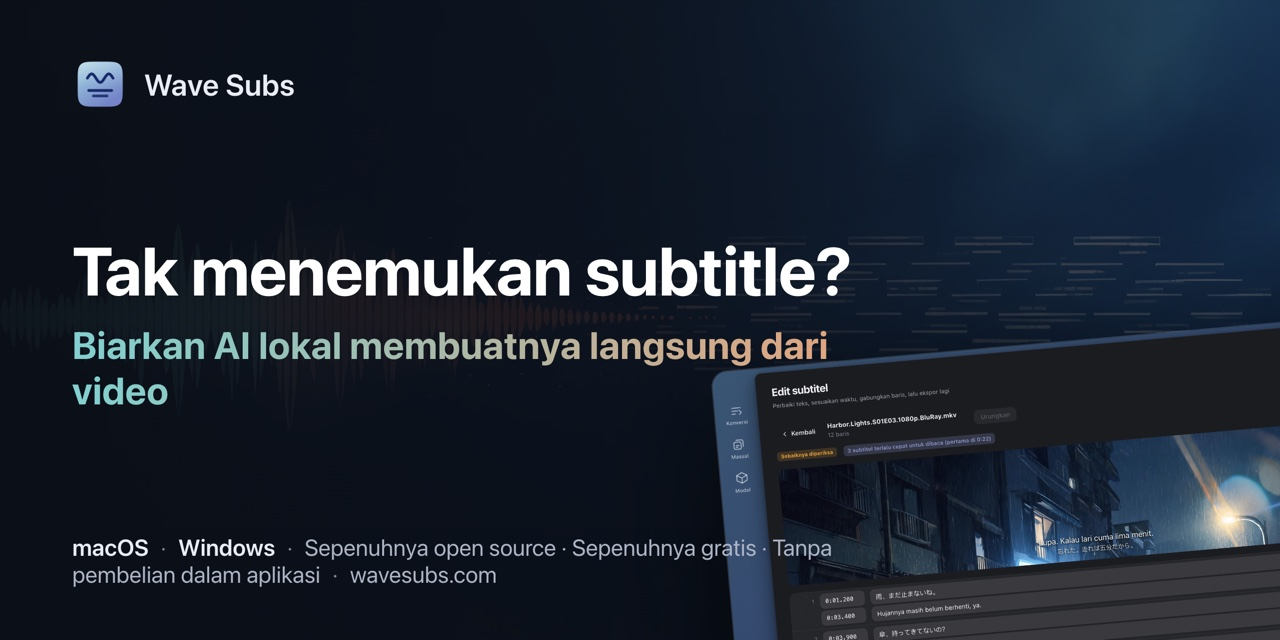
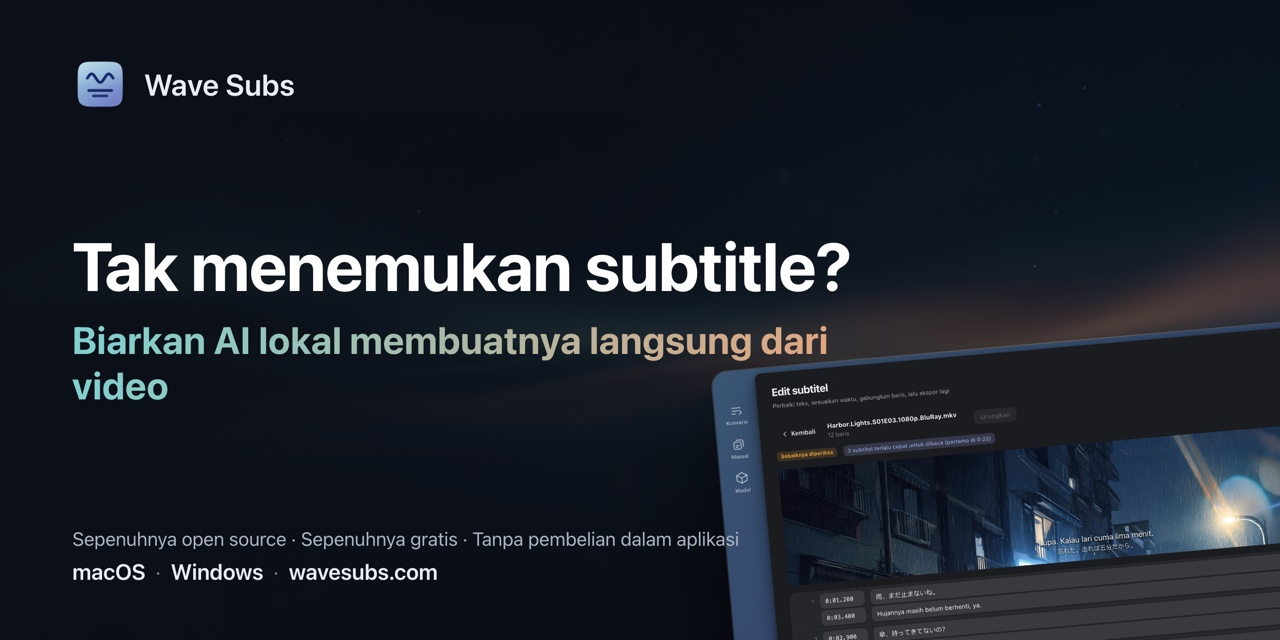
官网：hero 背景换成抽象极光渐变（即梦生成），社交卡片与 PH 首图同步更新；删除未引用的旧图

Changed region(s): [[0.0312, 0.0, 1.0, 0.6562], [0.0625, 0.8125, 0.6562, 0.9375], [0.75, 0.375, 0.7812, 0.4062]]

diff --git a/docs/de/index.html b/docs/de/index.html
@@ -45,7 +45,7 @@
 
   /* ---- 首屏 ---- */
   .hero{position:relative;overflow:hidden;padding:96px 0 40px;text-align:center}
-  .hero::before{content:"";position:absolute;inset:0;background:url(../assets/hero-wave.jpg) center/cover no-repeat;opacity:.55;mask-image:linear-gradient(to bottom,#000 30%,transparent 100%);-webkit-mask-image:linear-gradient(to bottom,#000 30%,transparent 100%)}
+  .hero::before{content:"";position:absolute;inset:0;background:url(../assets/hero-wave.jpg) center 35%/cover no-repeat;opacity:.85;mask-image:linear-gradient(to bottom,#000 45%,transparent 100%);-webkit-mask-image:linear-gradient(to bottom,#000 45%,transparent 100%)}
   .hero .wrap{position:relative}
   .hero h1{font-size:clamp(34px,5.4vw,60px);line-height:1.12;margin:0 0 18px;letter-spacing:-.5px;font-weight:700}
   .hero h1 em{font-style:normal;background:linear-gradient(90deg,var(--teal),var(--coral));-webkit-background-clip:text;background-clip:text;color:transparent}

diff --git a/docs/en/index.html b/docs/en/index.html
@@ -45,7 +45,7 @@
 
   /* ---- 首屏 ---- */
   .hero{position:relative;overflow:hidden;padding:96px 0 40px;text-align:center}
-  .hero::before{content:"";position:absolute;inset:0;background:url(../assets/hero-wave.jpg) center/cover no-repeat;opacity:.55;mask-image:linear-gradient(to bottom,#000 30%,transparent 100%);-webkit-mask-image:linear-gradient(to bottom,#000 30%,transparent 100%)}
+  .hero::before{content:"";position:absolute;inset:0;background:url(../assets/hero-wave.jpg) center 35%/cover no-repeat;opacity:.85;mask-image:linear-gradient(to bottom,#000 45%,transparent 100%);-webkit-mask-image:linear-gradient(to bottom,#000 45%,transparent 100%)}
   .hero .wrap{position:relative}
   .hero h1{font-size:clamp(34px,5.4vw,60px);line-height:1.12;margin:0 0 18px;letter-spacing:-.5px;font-weight:700}
   .hero h1 em{font-style:normal;background:linear-gradient(90deg,var(--teal),var(--coral));-webkit-background-clip:text;background-clip:text;color:transparent}

diff --git a/docs/fr/index.html b/docs/fr/index.html
@@ -45,7 +45,7 @@
 
   /* ---- 首屏 ---- */
   .hero{position:relative;overflow:hidden;padding:96px 0 40px;text-align:center}
-  .hero::before{content:"";position:absolute;inset:0;background:url(../assets/hero-wave.jpg) center/cover no-repeat;opacity:.55;mask-image:linear-gradient(to bottom,#000 30%,transparent 100%);-webkit-mask-image:linear-gradient(to bottom,#000 30%,transparent 100%)}
+  .hero::before{content:"";position:absolute;inset:0;background:url(../assets/hero-wave.jpg) center 35%/cover no-repeat;opacity:.85;mask-image:linear-gradient(to bottom,#000 45%,transparent 100%);-webkit-mask-image:linear-gradient(to bottom,#000 45%,transparent 100%)}
   .hero .wrap{position:relative}
   .hero h1{font-size:clamp(34px,5.4vw,60px);line-height:1.12;margin:0 0 18px;letter-spacing:-.5px;font-weight:700}
   .hero h1 em{font-style:normal;background:linear-gradient(90deg,var(--teal),var(--coral));-webkit-background-clip:text;background-clip:text;color:transparent}

diff --git a/docs/id/index.html b/docs/id/index.html
@@ -45,7 +45,7 @@
 
   /* ---- 首屏 ---- */
   .hero{position:relative;overflow:hidden;padding:96px 0 40px;text-align:center}
-  .hero::before{content:"";position:absolute;inset:0;background:url(../assets/hero-wave.jpg) center/cover no-repeat;opacity:.55;mask-image:linear-gradient(to bottom,#000 30%,transparent 100%);-webkit-mask-image:linear-gradient(to bottom,#000 30%,transparent 100%)}
+  .hero::before{content:"";position:absolute;inset:0;background:url(../assets/hero-wave.jpg) center 35%/cover no-repeat;opacity:.85;mask-image:linear-gradient(to bottom,#000 45%,transparent 100%);-webkit-mask-image:linear-gradient(to bottom,#000 45%,transparent 100%)}
   .hero .wrap{position:relative}
   .hero h1{font-size:clamp(34px,5.4vw,60px);line-height:1.12;margin:0 0 18px;letter-spacing:-.5px;font-weight:700}
   .hero h1 em{font-style:normal;background:linear-gradient(90deg,var(--teal),var(--coral));-webkit-background-clip:text;background-clip:text;color:transparent}

diff --git a/docs/ja/index.html b/docs/ja/index.html
@@ -45,7 +45,7 @@
 
   /* ---- 首屏 ---- */
   .hero{position:relative;overflow:hidden;padding:96px 0 40px;text-align:center}
-  .hero::before{content:"";position:absolute;inset:0;background:url(../assets/hero-wave.jpg) center/cover no-repeat;opacity:.55;mask-image:linear-gradient(to bottom,#000 30%,transparent 100%);-webkit-mask-image:linear-gradient(to bottom,#000 30%,transparent 100%)}
+  .hero::before{content:"";position:absolute;inset:0;background:url(../assets/hero-wave.jpg) center 35%/cover no-repeat;opacity:.85;mask-image:linear-gradient(to bottom,#000 45%,transparent 100%);-webkit-mask-image:linear-gradient(to bottom,#000 45%,transparent 100%)}
   .hero .wrap{position:relative}
   .hero h1{font-size:clamp(34px,5.4vw,60px);line-height:1.12;margin:0 0 18px;letter-spacing:-.5px;font-weight:700}
   .hero h1 em{font-style:normal;background:linear-gradient(90deg,var(--teal),var(--coral));-webkit-background-clip:text;background-clip:text;color:transparent}

diff --git a/docs/ko/index.html b/docs/ko/index.html
@@ -45,7 +45,7 @@
 
   /* ---- 首屏 ---- */
   .hero{position:relative;overflow:hidden;padding:96px 0 40px;text-align:center}
-  .hero::before{content:"";position:absolute;inset:0;background:url(../assets/hero-wave.jpg) center/cover no-repeat;opacity:.55;mask-image:linear-gradient(to bottom,#000 30%,transparent 100%);-webkit-mask-image:linear-gradient(to bottom,#000 30%,transparent 100%)}
+  .hero::before{content:"";position:absolute;inset:0;background:url(../assets/hero-wave.jpg) center 35%/cover no-repeat;opacity:.85;mask-image:linear-gradient(to bottom,#000 45%,transparent 100%);-webkit-mask-image:linear-gradient(to bottom,#000 45%,transparent 100%)}
   .hero .wrap{position:relative}
   .hero h1{font-size:clamp(34px,5.4vw,60px);line-height:1.12;margin:0 0 18px;letter-spacing:-.5px;font-weight:700}
   .hero h1 em{font-style:normal;background:linear-gradient(90deg,var(--teal),var(--coral));-webkit-background-clip:text;background-clip:text;color:transparent}

diff --git a/docs/ms/index.html b/docs/ms/index.html
@@ -45,7 +45,7 @@
 
   /* ---- 首屏 ---- */
   .hero{position:relative;overflow:hidden;padding:96px 0 40px;text-align:center}
-  .hero::before{content:"";position:absolute;inset:0;background:url(../assets/hero-wave.jpg) center/cover no-repeat;opacity:.55;mask-image:linear-gradient(to bottom,#000 30%,transparent 100%);-webkit-mask-image:linear-gradient(to bottom,#000 30%,transparent 100%)}
+  .hero::before{content:"";position:absolute;inset:0;background:url(../assets/hero-wave.jpg) center 35%/cover no-repeat;opacity:.85;mask-image:linear-gradient(to bottom,#000 45%,transparent 100%);-webkit-mask-image:linear-gradient(to bottom,#000 45%,transparent 100%)}
   .hero .wrap{position:relative}
   .hero h1{font-size:clamp(34px,5.4vw,60px);line-height:1.12;margin:0 0 18px;letter-spacing:-.5px;font-weight:700}
   .hero h1 em{font-style:normal;background:linear-gradient(90deg,var(--teal),var(--coral));-webkit-background-clip:text;background-clip:text;color:transparent}

diff --git a/docs/ru/index.html b/docs/ru/index.html
@@ -45,7 +45,7 @@
 
   /* ---- 首屏 ---- */
   .hero{position:relative;overflow:hidden;padding:96px 0 40px;text-align:center}
-  .hero::before{content:"";position:absolute;inset:0;background:url(../assets/hero-wave.jpg) center/cover no-repeat;opacity:.55;mask-image:linear-gradient(to bottom,#000 30%,transparent 100%);-webkit-mask-image:linear-gradient(to bottom,#000 30%,transparent 100%)}
+  .hero::before{content:"";position:absolute;inset:0;background:url(../assets/hero-wave.jpg) center 35%/cover no-repeat;opacity:.85;mask-image:linear-gradient(to bottom,#000 45%,transparent 100%);-webkit-mask-image:linear-gradient(to bottom,#000 45%,transparent 100%)}
   .hero .wrap{position:relative}
   .hero h1{font-size:clamp(34px,5.4vw,60px);line-height:1.12;margin:0 0 18px;letter-spacing:-.5px;font-weight:700}
   .hero h1 em{font-style:normal;background:linear-gradient(90deg,var(--teal),var(--coral));-webkit-background-clip:text;background-clip:text;color:transparent}

diff --git a/docs/th/index.html b/docs/th/index.html
@@ -45,7 +45,7 @@
 
   /* ---- 首屏 ---- */
   .hero{position:relative;overflow:hidden;padding:96px 0 40px;text-align:center}
-  .hero::before{content:"";position:absolute;inset:0;background:url(../assets/hero-wave.jpg) center/cover no-repeat;opacity:.55;mask-image:linear-gradient(to bottom,#000 30%,transparent 100%);-webkit-mask-image:linear-gradient(to bottom,#000 30%,transparent 100%)}
+  .hero::before{content:"";position:absolute;inset:0;background:url(../assets/hero-wave.jpg) center 35%/cover no-repeat;opacity:.85;mask-image:linear-gradient(to bottom,#000 45%,transparent 100%);-webkit-mask-image:linear-gradient(to bottom,#000 45%,transparent 100%)}
   .hero .wrap{position:relative}
   .hero h1{font-size:clamp(34px,5.4vw,60px);line-height:1.12;margin:0 0 18px;letter-spacing:-.5px;font-weight:700}
   .hero h1 em{font-style:normal;background:linear-gradient(90deg,var(--teal),var(--coral));-webkit-background-clip:text;background-clip:text;color:transparent}

diff --git a/docs/vi/index.html b/docs/vi/index.html
@@ -45,7 +45,7 @@
 
   /* ---- 首屏 ---- */
   .hero{position:relative;overflow:hidden;padding:96px 0 40px;text-align:center}
-  .hero::before{content:"";position:absolute;inset:0;background:url(../assets/hero-wave.jpg) center/cover no-repeat;opacity:.55;mask-image:linear-gradient(to bottom,#000 30%,transparent 100%);-webkit-mask-image:linear-gradient(to bottom,#000 30%,transparent 100%)}
+  .hero::before{content:"";position:absolute;inset:0;background:url(../assets/hero-wave.jpg) center 35%/cover no-repeat;opacity:.85;mask-image:linear-gradient(to bottom,#000 45%,transparent 100%);-webkit-mask-image:linear-gradient(to bottom,#000 45%,transparent 100%)}
   .hero .wrap{position:relative}
   .hero h1{font-size:clamp(34px,5.4vw,60px);line-height:1.12;margin:0 0 18px;letter-spacing:-.5px;font-weight:700}
   .hero h1 em{font-style:normal;background:linear-gradient(90deg,var(--teal),var(--coral));-webkit-background-clip:text;background-clip:text;color:transparent}

diff --git a/docs/index.html b/docs/index.html
@@ -45,7 +45,7 @@
 
   /* ---- 首屏 ---- */
   .hero{position:relative;overflow:hidden;padding:96px 0 40px;text-align:center}
-  .hero::before{content:"";position:absolute;inset:0;background:url(assets/hero-wave.jpg) center/cover no-repeat;opacity:.55;mask-image:linear-gradient(to bottom,#000 30%,transparent 100%);-webkit-mask-image:linear-gradient(to bottom,#000 30%,transparent 100%)}
+  .hero::before{content:"";position:absolute;inset:0;background:url(assets/hero-wave.jpg) center 35%/cover no-repeat;opacity:.85;mask-image:linear-gradient(to bottom,#000 45%,transparent 100%);-webkit-mask-image:linear-gradient(to bottom,#000 45%,transparent 100%)}
   .hero .wrap{position:relative}
   .hero h1{font-size:clamp(34px,5.4vw,60px);line-height:1.12;margin:0 0 18px;letter-spacing:-.5px;font-weight:700}
   .hero h1 em{font-style:normal;background:linear-gradient(90deg,var(--teal),var(--coral));-webkit-background-clip:text;background-clip:text;color:transparent}

diff --git a/scripts/site.css b/scripts/site.css
@@ -27,7 +27,7 @@
 
   /* ---- 首屏 ---- */
   .hero{position:relative;overflow:hidden;padding:96px 0 40px;text-align:center}
-  .hero::before{content:"";position:absolute;inset:0;background:url(assets/hero-wave.jpg) center/cover no-repeat;opacity:.55;mask-image:linear-gradient(to bottom,#000 30%,transparent 100%);-webkit-mask-image:linear-gradient(to bottom,#000 30%,transparent 100%)}
+  .hero::before{content:"";position:absolute;inset:0;background:url(assets/hero-wave.jpg) center 35%/cover no-repeat;opacity:.85;mask-image:linear-gradient(to bottom,#000 45%,transparent 100%);-webkit-mask-image:linear-gradient(to bottom,#000 45%,transparent 100%)}
   .hero .wrap{position:relative}
   .hero h1{font-size:clamp(34px,5.4vw,60px);line-height:1.12;margin:0 0 18px;letter-spacing:-.5px;font-weight:700}
   .hero h1 em{font-style:normal;background:linear-gradient(90deg,var(--teal),var(--coral));-webkit-background-clip:text;background-clip:text;color:transparent}
